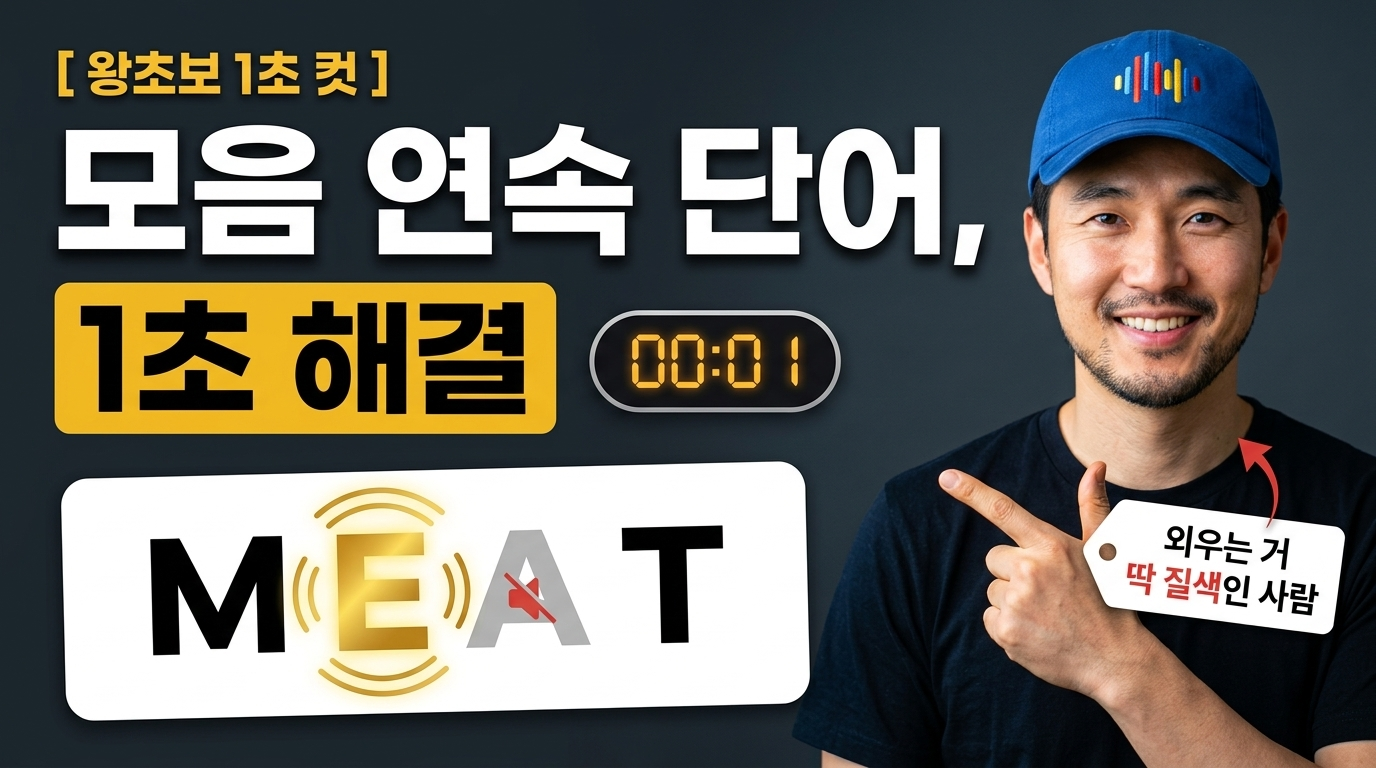
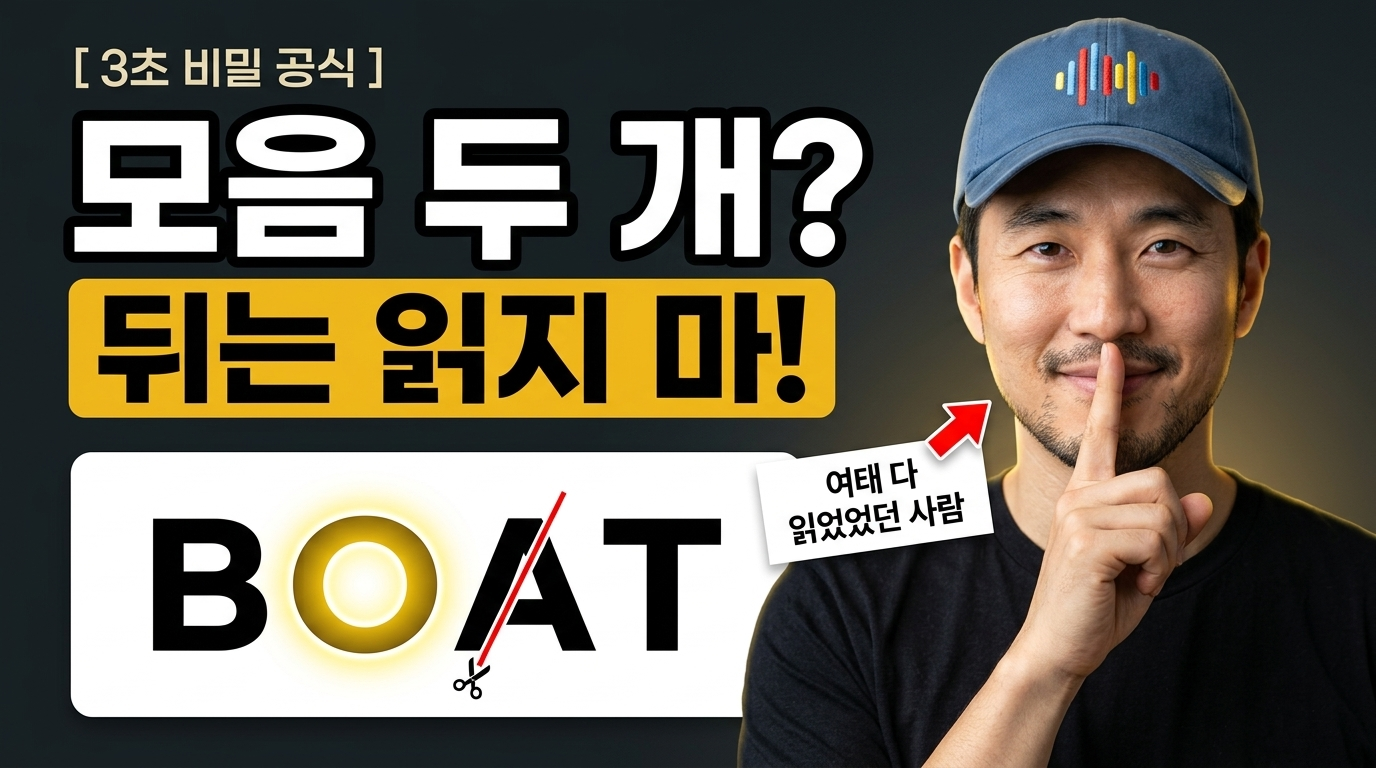
feat(ep16): add flagship masterpiece thumbnail '뒤는 읽지 마!' with secret shh gesture

diff --git a/knowledge/logs/2026-09.md b/knowledge/logs/2026-09.md
@@ -1175,8 +1175,18 @@ Quiver 전부 검토했으나 전부 유료이거나 자동화 경로는 유료)
   다크 슬레이트 배경 + 상단 뱃지 `[ 왕초보 1초 컷 ]` + `모음 연속 단어,` (화이트) + `1초 해결` (시그니처 `#F5C518` 골드 칩)
   + `MEAT`에서 `E` 골드 발광 & `A` 음소거 아이콘 + 미니멀 디지털 스톱워치 뱃지(`00:01`) +
   채널 공식 발표자의 경쾌한 손가락 가리킴 포즈와 타깃 라벨(`외우는 거 딱 질색인 사람`) 결합.
+- **최종 플래그십 썸네일 (가위 싹둑 + 쉿 🤫 특급 비밀 '뒤는 읽지 마!') 완성**:
+  대표님 피드백("너가 생각했을 때 지금 만든 썸네일들이 맘에 들어? 그럼 하나 만들어봐")을 바탕으로,
+  공장형 템플릿의 얌전함을 과감히 탈피하여 피드에서 스크롤을 멈추게 하는(Scroll Stopper) 플래그십 썸네일 완성
+  (`videos/ep16-double-vowels/thumbnail-final.jpg` 및 `thumbnail-c.jpg`로 채택).
+  1. *비주얼 메타포*: `BOAT` 단어에서 `O`는 강렬한 황금빛 태양처럼 발광하고, 둘째 모음 `A`는 빨간 가위날로
+     단번에 싹둑 잘려 나가는 파격적인 시각화(가위 아이콘 결합).
+  2. *캐릭터 제스처*: 공식 발표자가 입술에 검지를 대며 *"쉿 🤫 아무한테도 말하지 마세요"*라는 장난기 어리고
+     확신에 찬 표정으로 시선 집중 + 타깃 라벨(`여태 다 읽었던 사람` + 빨간 화살표).
+  3. *카피 & 패키징*: `[ 3초 비밀 공식 ]` + `모음 두 개?` (화이트 볼드) + `뒤는 읽지 마!` (`#F5C518` 골드 칩).
 - **검증**: `npx hyperframes check` 전수 검증 통과 (Runtime 0, Layout 0, Motion 0, WCAG AA
   Contrast 100% PASS).
+
 
 
 
